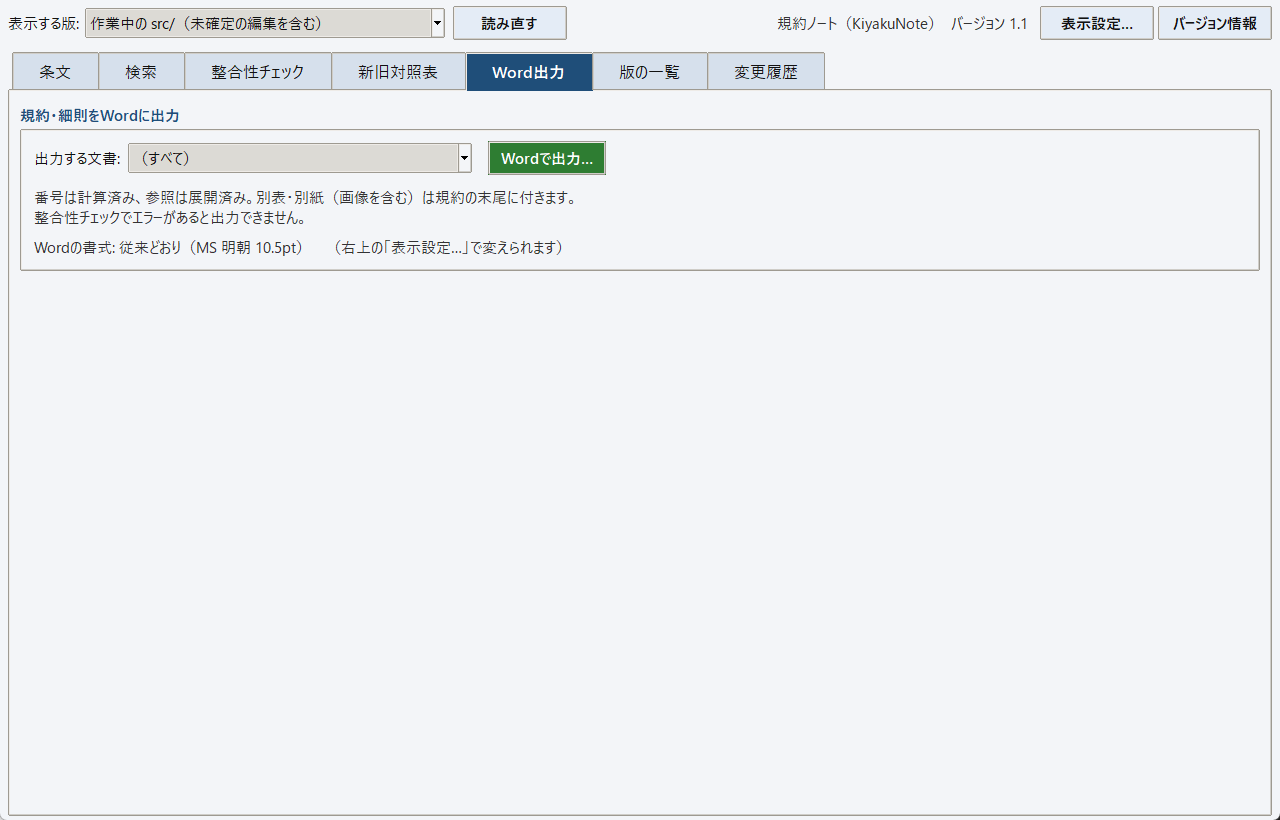
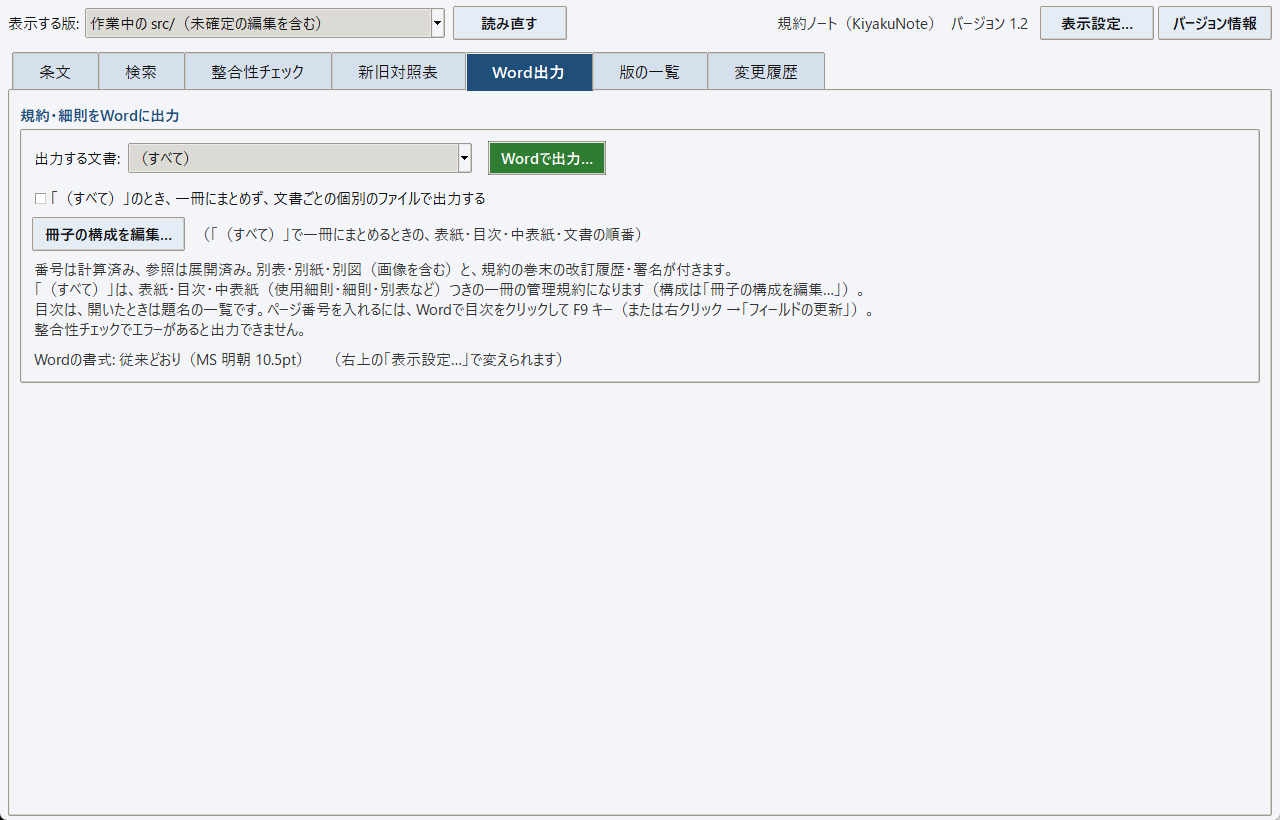
バージョンを1.2にした（結合セル表の編集、Excel受け渡し、冊子のWord出力、改訂履歴・署名の編集ほか）。画面の説明画像を更新

Changed region(s): [[0.0312, 0.2134, 0.6875, 0.4573]]

diff --git a/kiyakunote/__init__.py b/kiyakunote/__init__.py
@@ -1,5 +1,5 @@
 """規約ノート（KiyakuNote）: マンション管理規約 編集・改正履歴管理システム。"""
 
-__version__ = "1.1"
+__version__ = "1.2"
 APP_NAME = "規約ノート"
 APP_DESCRIPTION = "マンション管理規約 編集・改正履歴管理システム"

diff --git a/README.md b/README.md
@@ -1,6 +1,6 @@
 # 規約ノート（KiyakuNote）
 
-**マンション管理規約 編集・改正履歴管理システム** — バージョン 1.1
+**マンション管理規約 編集・改正履歴管理システム** — バージョン 1.2
 
 マンション管理規約（細則・使用細則を含む）を **Markdown + git** で管理し、条文の追加・削除・変更、
 **新旧対照表の自動生成**、**参照条項の自動更新**、検索、Word 出力ができる、Windows 向けのオープンソースのツールです。
@@ -23,7 +23,7 @@
 
 ## ダウンロード
 
-[Releases](https://github.com/prismpepe/KiyakuNote/releases) の `KiyakuNote-1.1-win.zip`（Windows 用の exe 版。Python は不要）を展開して、
+[Releases](https://github.com/prismpepe/KiyakuNote/releases) の `KiyakuNote-1.2-win.zip`（Windows 用の exe 版。Python は不要）を展開して、
 `KiyakuNote\KiyakuNote.exe` を起動します。署名のない exe なので、初回は Windows の警告（SmartScreen）が出ることがあります
 （「詳細情報」→「実行」）。ソースから動かすときは下の「クイックスタート」です。
 過去の版（git のタグ）を使う機能は、リポジトリをクローンしたときに使えます（exe 版の zip には git の履歴が入っていません）。
@@ -83,7 +83,7 @@ python -m kiyakunote gui                                 # 画面を開く（run
 ```bash
 python -m pytest -q          # テスト
 python build_exe.py          # 手元で使う exe を作る（PyInstaller が必要）
-python build_release.py      # 配布版 dist/KiyakuNote-1.1-win.zip を作る（build_release.bat でも可）
+python build_release.py      # 配布版 dist/KiyakuNote-1.2-win.zip を作る（build_release.bat でも可）
 python tools/take_screenshots.py   # docs/images/ のスクリーンショットを作り直す（Pillow が必要）
 ```
 

diff --git a/THIRD_PARTY_NOTICES.md b/THIRD_PARTY_NOTICES.md
@@ -6,13 +6,15 @@
 |------|------|-----------|
 | Python（標準ライブラリ、tkinter、sqlite3） | 実行環境 | PSF License |
 | [python-docx](https://github.com/python-openxml/python-docx) | Word（.docx）出力 | MIT |
+| [openpyxl](https://openpyxl.readthedocs.io/)（任意） | 表と Excel の受け渡し | MIT |
 | [pytest](https://pytest.org/)（開発） | テスト | MIT |
 | [PyInstaller](https://pyinstaller.org/)（任意） | GUI を exe にする | GPL-2.0 に「バンドル例外」を付けたもの。作った exe は PyInstaller のライセンスに縛られず配布できます |
-| [Pillow](https://python-pillow.org/)（任意） | スクリーンショットの撮影 | MIT-CMU（HPND） |
+| [Pillow](https://python-pillow.org/)（任意） | 別紙・別図の画像の表示、スクリーンショットの撮影 | MIT-CMU（HPND） |
+| [NumPy](https://numpy.org/)（任意） | 画像の余白の切り落とし（`imgtrim.py`、画面からは使わない） | BSD-3-Clause |
 
 ## 配布するとき（exe を作る場合）
 
-PyInstaller で作った exe には、Python と python-docx（とその依存の lxml など）が同梱されます。
+PyInstaller で作った exe には、Python と python-docx・openpyxl・Pillow（とその依存の lxml など）が同梱されます。
 配布するときは、それぞれのライセンス表示を同梱してください。
 
 ## 規約の本文について

diff --git a/CHANGELOG.md b/CHANGELOG.md
@@ -1,6 +1,6 @@
 # 変更履歴
 
-## 次の版（未公開）
+## 1.2（2026-11-22）
 
 - **結合セルのある表を画面で編集。** セルの文字、行・列の追加と削除（結合セルは広がる・狭まる）。結合・結合の解除もできる。
 - **Excel との受け渡し。** 表を Excel で開いて編集し、取り込む。ファイルへの書き出し・取り込みもできる（`openpyxl` が要る）。
